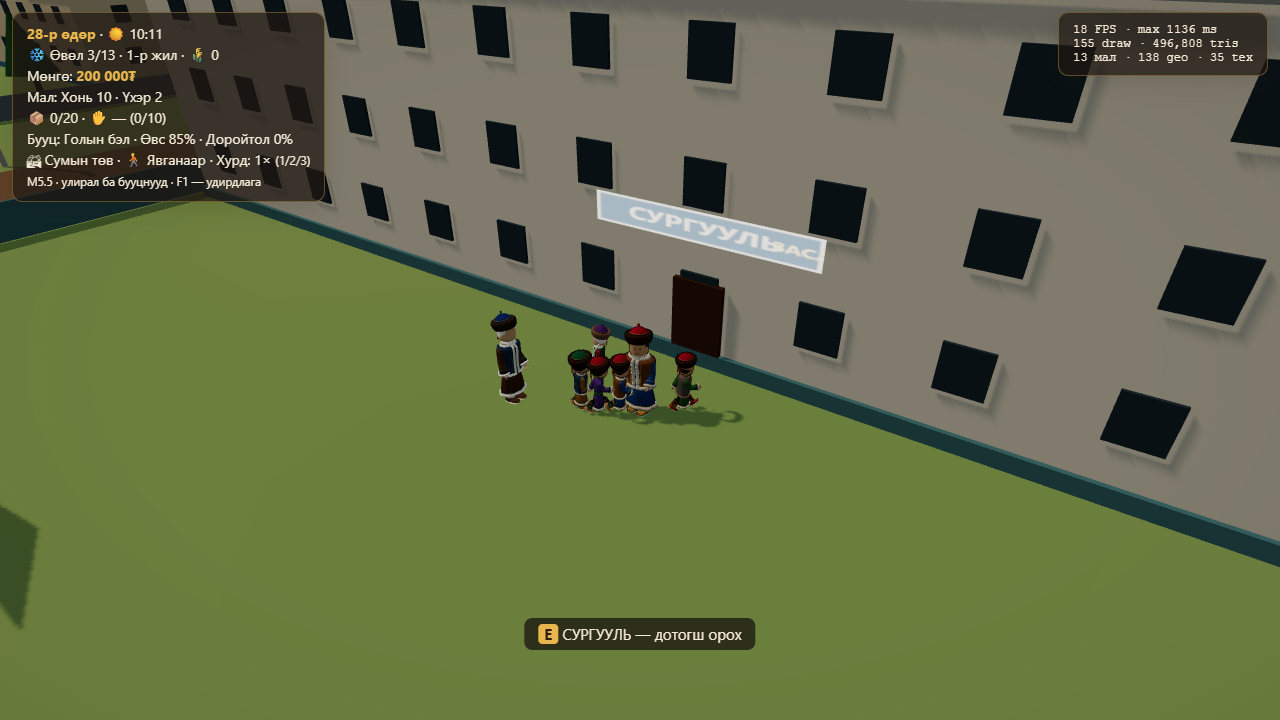
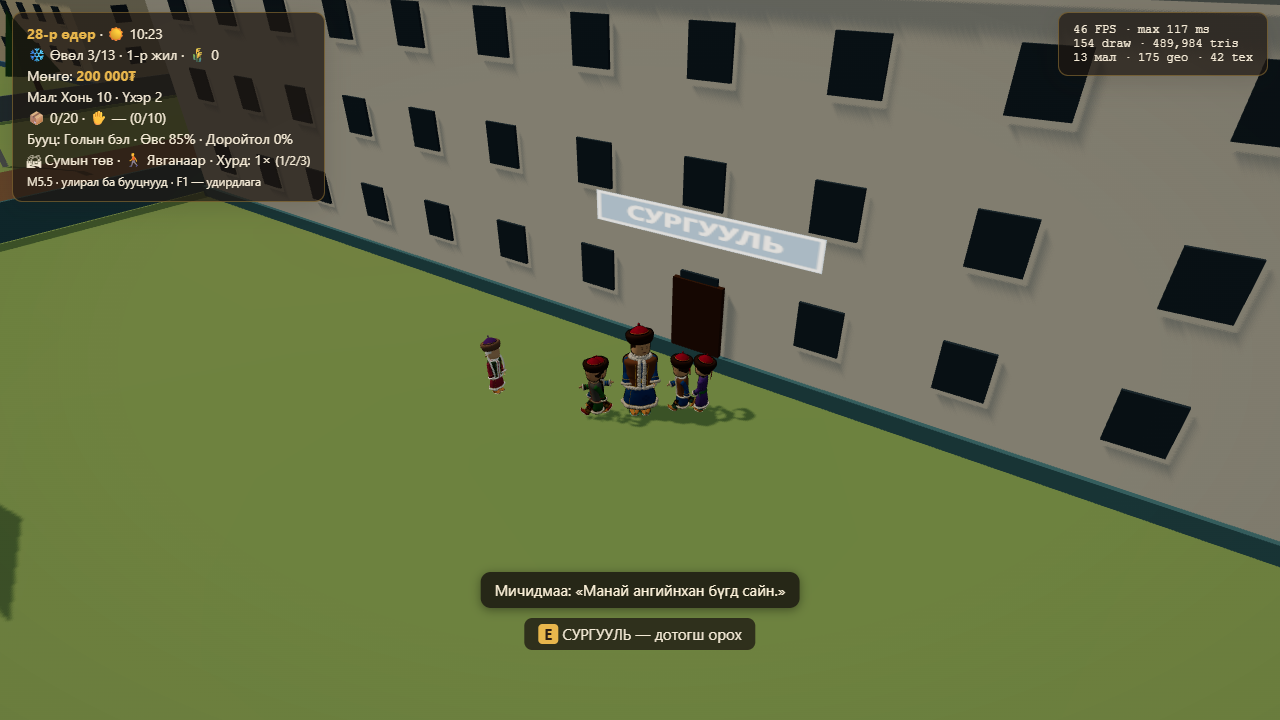
fix(render): шошго бичиг хөрш нүд рүү нэвчдэг, камер ойрын дүрийн биед орно — labelAtlas завсар+багтаах, камер хананд наалдахад дээш өргөгдөж/эргэнэ, ойр дүр нуугдана, NPC тоглогчийг тойрно

diff --git a/game/src/render/camera.ts b/game/src/render/camera.ts
@@ -9,6 +9,9 @@ import * as THREE from 'three';
 import { clamp } from './util';
 import { clipThroughSolids, type CamSolids } from './camclip';
 
+/** Мөргөлдөөнөөс болж камер малчинд ойртох хамгийн бага зай (м) */
+const MIN_CAM = 1.7;
+
 export class FollowCamera {
   readonly camera: THREE.PerspectiveCamera;
   yaw = 0.6;
@@ -120,17 +123,34 @@ export class FollowCamera {
   }
 
   update(tx: number, tz: number, ty: number, heightAt: (x: number, z: number) => number, dt = 1 / 60): void {
-    const cx = tx + Math.sin(this.yaw) * Math.cos(this.pitch) * this.dist;
-    const cz = tz + Math.cos(this.yaw) * Math.cos(this.pitch) * this.dist;
-    let cy = ty + Math.sin(this.pitch) * this.dist;
-    cy = Math.max(cy, heightAt(cx, cz) + 1.2);
+    const trial = (pitch: number, yaw = this.yaw): { cx: number; cy: number; cz: number; t: number } => {
+      const cx = tx + Math.sin(yaw) * Math.cos(pitch) * this.dist, cz = tz + Math.cos(yaw) * Math.cos(pitch) * this.dist;
+      const cy = Math.max(ty + Math.sin(pitch) * this.dist, heightAt(cx, cz) + 1.2);
+      return { cx, cy, cz, t: this.solids ? clipThroughSolids([tx, ty, tz], [cx, cy, cz], this.solids) : 1 };
+    };
+    // Мөргөлдөөн: малчин → камер сегментийг саадад тулгана. Саад ойр бол камер дээш өргөгдөж барилгын дээгүүрээс харна
+    // (малчны биед наалдахгүй); хэрэв тэгэхэд ч болохгүй бол ойртоно. Ойртох нь хурдан (~0.08 с), холдох нь аажим (~0.4 с)
+    let best = trial(this.pitch);
+    if (this.solids && best.t < 0.85) {
+      for (let pp = this.pitch + 0.15; pp <= Math.min(1.38, this.pitch + 0.31); pp += 0.15) {
+        const r = trial(Math.min(pp, 1.38));
+        if (r.t > best.t + 1e-6) best = r;
+        if (r.t >= 0.85) break;
+      }
+    }
+    // Саад ойр бөгөөд өргөгдсөн ч чөлөөгүй бол (хананд наалдсан) камер аажим эргэж чөлөөтэй тал руу гарна (чирж байхад эргүүлэхгүй)
+    if (this.solids && !this.mapMode && !this.ptr?.drag && dt > 0 && best.t * this.dist < Math.min(6, this.dist)) {
+      for (let i = 1; i <= 9; i++) {
+        const off = Math.ceil(i / 2) * 0.35 * (i % 2 ? 1 : -1);
+        if (trial(this.pitch, this.yaw + off).t >= 0.85) { this.yaw += off * Math.min(1, dt * 3); best = trial(this.pitch); break; }
+      }
+    }
+    const { cx, cy, cz, t } = best;
     this.desiredTarget.set(tx, ty, tz);
-    // Мөргөлдөөн: малчин → камер сегментийг саадад тулгана. Ойртох нь хурдан (~0.08 с), холдох нь аажим (~0.4 с)
-    let t = 1;
-    if (this.solids) t = clipThroughSolids([tx, ty, tz], [cx, cy, cz], this.solids);
     if (!this.cameraReady || dt <= 0 || t < this.clipT) this.clipT = t < this.clipT ? this.clipT + (t - this.clipT) * (this.cameraReady && dt > 0 ? 1 - Math.exp(-dt * 25) : 1) : t;
     else this.clipT += (t - this.clipT) * (1 - Math.exp(-dt * 2.5));
-    const k = Math.min(this.clipT, t);                  // зөөлрүүлсэн ч хана руу орохгүй (t-ээс их болохгүй)
+    const L0 = Math.hypot(cx - tx, cy - ty, cz - tz) || 1, kMin = Math.min(1, MIN_CAM / L0);   // малчны биед наалдахгүй (ойр дүрийг scene нууна)
+    const k = Math.max(kMin, Math.min(this.clipT, t));     // зөөлрүүлсэн ч хана руу орохгүй (t-ээс их болохгүй)
     this.desiredPosition.set(tx + (cx - tx) * k, ty + (cy - ty) * k, tz + (cz - tz) * k);
     if (!this.cameraReady || dt <= 0) {
       this.smoothPosition.copy(this.desiredPosition);
@@ -145,7 +165,8 @@ export class FollowCamera {
     if (this.solids) {
       const sp = this.smoothPosition, st = this.smoothTarget;
       const k2 = clipThroughSolids([st.x, st.y, st.z], [sp.x, sp.y, sp.z], this.solids);
-      if (k2 < 1) sp.set(st.x + (sp.x - st.x) * k2, st.y + (sp.y - st.y) * k2, st.z + (sp.z - st.z) * k2);
+      const kMin2 = Math.min(1, MIN_CAM / (Math.hypot(sp.x - st.x, sp.y - st.y, sp.z - st.z) || 1));
+      if (k2 < 1) sp.set(st.x + (sp.x - st.x) * Math.max(k2, kMin2), st.y + (sp.y - st.y) * Math.max(k2, kMin2), st.z + (sp.z - st.z) * Math.max(k2, kMin2));
     }
     this.camera.position.copy(this.smoothPosition);
     this.camera.lookAt(this.smoothTarget);

diff --git a/game/src/render/labelAtlas.ts b/game/src/render/labelAtlas.ts
@@ -8,19 +8,27 @@ import { mergeGeometries } from 'three/examples/jsm/utils/BufferGeometryUtils.js
 export interface LabelStyle { text: string; bg: string; fg: string }
 
 const CW = 512, CH = 128, COLS = 4;
+/** Нүд хооронд завсар (px): mipmap-ийн цонх хөрш нүдний бичгийг татахгүй; UV нүдийн дотор талаас авна */
+const GAP = 16, INSET = 8, SW = CW + GAP, SH = CH + GAP;
 
 function drawCell(c: CanvasRenderingContext2D, x: number, y: number, s: LabelStyle): void {
+  c.save();
+  c.beginPath(); c.rect(x, y, CW, CH); c.clip();                       // бичиг нүднээсээ хэзээ ч гарахгүй
   c.fillStyle = s.bg;
   c.fillRect(x, y, CW, CH);
   c.strokeStyle = s.fg;
   c.lineWidth = 8;
-  c.strokeRect(x + 6, y + 6, CW - 12, CH - 12);
+  c.strokeRect(x + 14, y + 14, CW - 28, CH - 28);
   c.fillStyle = s.fg;
-  const size = s.text.length > 14 ? 46 : s.text.length > 9 ? 58 : 70;
-  c.font = `bold ${size}px system-ui, sans-serif`;
   c.textAlign = 'center';
   c.textBaseline = 'middle';
+  let size = s.text.length > 14 ? 46 : s.text.length > 9 ? 58 : 70;
+  c.font = `bold ${size}px system-ui, sans-serif`;
+  const maxW = CW - 72;                                                  // хүрээнээс 18 px зайтай
+  const w = c.measureText(s.text).width;
+  if (w > maxW) { size = Math.max(20, Math.floor((size * maxW) / w)); c.font = `bold ${size}px system-ui, sans-serif`; }
   c.fillText(s.text, x + CW / 2, y + 68);
+  c.restore();
 }
 
 export class LabelAtlas {
@@ -51,10 +59,10 @@ export class LabelAtlas {
     if (!this.quads.length) return null;
     this.rows = Math.ceil(this.cells.length / COLS);
     const cv = document.createElement('canvas');
-    cv.width = CW * COLS;
-    cv.height = CH * this.rows;
+    cv.width = SW * COLS;
+    cv.height = SH * this.rows;
     const c = cv.getContext('2d')!;
-    this.cells.forEach((s, i) => drawCell(c, (i % COLS) * CW, Math.floor(i / COLS) * CH, s));
+    this.cells.forEach((s, i) => drawCell(c, (i % COLS) * SW + GAP / 2, Math.floor(i / COLS) * SH + GAP / 2, s));
     const geometry = mergeGeometries(this.quads.map((q) => q.geo), false)!;
     this.quads.forEach((q) => q.geo.dispose());
     this.uv = geometry.attributes.uv as THREE.BufferAttribute;
@@ -72,9 +80,10 @@ export class LabelAtlas {
   }
 
   private setCell(quad: number, cell: number): void {
-    const uv = this.uv!, col = cell % COLS, row = Math.floor(cell / COLS), W = CW * COLS, H = CH * this.rows;
-    // PlaneGeometry-ийн орой: (0,1) (1,1) (0,0) (1,0); 1 px дотогш — хөрш нүд нэвчихгүй
-    const u0 = (col * CW + 1) / W, u1 = ((col + 1) * CW - 1) / W, v0 = 1 - ((row + 1) * CH - 1) / H, v1 = 1 - (row * CH + 1) / H;
+    const uv = this.uv!, col = cell % COLS, row = Math.floor(cell / COLS), W = SW * COLS, H = SH * this.rows;
+    // PlaneGeometry-ийн орой: (0,1) (1,1) (0,0) (1,0); нүдний ирмэгээс INSET px дотогш
+    const x0 = col * SW + GAP / 2, y0 = row * SH + GAP / 2;
+    const u0 = (x0 + INSET) / W, u1 = (x0 + CW - INSET) / W, v0 = 1 - (y0 + CH - INSET) / H, v1 = 1 - (y0 + INSET) / H;
     const o = quad * 4;
     uv.setXY(o, u0, v1); uv.setXY(o + 1, u1, v1); uv.setXY(o + 2, u0, v0); uv.setXY(o + 3, u1, v0);
     uv.needsUpdate = true;

diff --git a/game/src/render/npcs.ts b/game/src/render/npcs.ts
@@ -35,6 +35,8 @@ interface Entry {
   placed: boolean;
   lineNo: number;
   scale: number;
+  /** тоглогчийг тойрох зөөлөн шилжилт (м) */
+  ox: number; oz: number;
 }
 
 export class NpcView {
@@ -45,10 +47,12 @@ export class NpcView {
   private talkWith: { e: Entry; t: number; line: number } | null = null;
   private speech: HTMLDivElement | null = null;
   private readonly maxLive = MAX_LIVE[quality] ?? 5;
+  /** Камерын байрлал (scene тавина): камер дүрийн биед орвол тэр дүрийг нууна */
+  camera: THREE.Vector3 | null = null;
 
   constructor(private readonly cfg: GameConfig) {
     this.group.name = 'npcs';
-    this.entries = cfg.npcs.npcs.map((def) => ({ def, rig: null, far: null, yaw: 0, px: 0, pz: 0, speed: 0, placed: false, lineNo: 0, scale: def.look.figure?.stature ?? 1 }));
+    this.entries = cfg.npcs.npcs.map((def) => ({ def, rig: null, far: null, yaw: 0, px: 0, pz: 0, speed: 0, placed: false, lineNo: 0, scale: def.look.figure?.stature ?? 1, ox: 0, oz: 0 }));
   }
 
   // ---------- төрх ----------
@@ -106,6 +110,13 @@ export class NpcView {
   private drive(e: Entry, n: NpcNow, x: number, y: number, z: number, dt: number, playerX: number, playerZ: number, talking: boolean): void {
     const rig = this.ensureRig(e);
     if (!e.yaw && !e.placed) e.yaw = n.heading;
+    // тоглогчийн биеэс (1.15 м) түлхэгдэж зөөлөн тойрно — тоглогчийн дэргэд, биед нь зогсохгүй
+    const dx = x - playerX, dz = z - playerZ, d = Math.hypot(dx, dz), MINP = 1.15;
+    let tx = 0, tz = 0;
+    if (d < MINP) { const nx = d > 1e-3 ? dx / d : Math.cos(n.heading + Math.PI / 2), nz = d > 1e-3 ? dz / d : -Math.sin(n.heading + Math.PI / 2); tx = nx * MINP - dx; tz = nz * MINP - dz; }
+    const kk = Math.min(1, dt * 7);
+    e.ox += (tx - e.ox) * kk; e.oz += (tz - e.oz) * kk;
+    x += e.ox; z += e.oz;
     this.measure(e, x, z, dt);
     const target = talking ? Math.atan2(playerX - x, playerZ - z) : n.heading;
     e.yaw = turnToward(e.yaw, target, talking ? characters.talk.turnRate : 8, dt);
@@ -113,6 +124,7 @@ export class NpcView {
     rig.root.rotation.y = e.yaw;
     const bob = animateCharacter(rig, { dt, speed: talking ? 0 : e.speed, mode: 'foot', raise: false, uurga: false, talk: talking, emotion: 'neutral' });
     rig.root.position.y = y + bob * e.scale;
+    if (this.camera && Math.hypot(this.camera.x - x, this.camera.y - (rig.root.position.y + 0.9 * e.scale), this.camera.z - z) < 1.5 * e.scale) rig.root.visible = false;   // камер биед орвол нууна
   }
 
   /** Ярилцлага: хамгийн ойр, зогсож буй NPC (амьд дүр) руу; тоглогч бас зогсож байх ёстой */

diff --git a/game/src/render/scene.ts b/game/src/render/scene.ts
@@ -293,7 +293,7 @@ export class GameView {
     this.place = p.place;
     this.skyUniforms.cloudTime.value += Math.max(0, dt);
     const look = seasonLook(this.cfg, state);
-    if (import.meta.env.DEV) (window as unknown as { __state?: GameState }).__state = state;   // dev: туршилтын зураг авахад (цаг, өдөр, байрлал өөрчлөх)
+    if (import.meta.env.DEV) { (window as unknown as { __state?: GameState; __cam?: FollowCamera }).__state = state; (window as unknown as { __cam?: FollowCamera }).__cam = this.cam; }   // dev: туршилтын зураг авахад (цаг, өдөр, байрлал өөрчлөх)
     const season = seasonOf(this.cfg, state.time.day);
     this.applyDaylight(state.time.minute, season, p.x, p.z);
     this.characters.setSeason(season);
@@ -350,6 +350,8 @@ export class GameView {
     const ty = this.heightAt(cx, cz) + (p.mounted || p.driving ? 2.4 : 1.6);
     this.cam.solids = camp ? this.campSolids(state) : p.place === 'sum' ? this.sum.solids : null;   // V4.5 R7: камер барилга, гэрт орохгүй
     this.cam.update(cx, cz, ty, this.heightAt, dt);
+    this.sum.npcs.camera = this.cam.camera.position;
+    this.hideHerderIfCameraInside(cx, ty - 0.6, cz);
     this.terrain.updateGrassCenter(cx, cz, (this.scene.fog as THREE.Fog).far);
     this.skyDome.position.copy(this.cam.camera.position);
     this.stars.position.copy(this.cam.camera.position);
@@ -357,6 +359,13 @@ export class GameView {
     this.renderer.render(this.scene, this.cam.camera);
   }
 
+  private herderHid = false;
+  /** Камер малчны биед (1.5 м дотор) орвол малчныг түр нууна */
+  private hideHerderIfCameraInside(x: number, y: number, z: number): void {
+    const hv = this.characters.herderObject, c = this.cam.camera.position;
+    const near = Math.hypot(c.x - x, c.y - y, c.z - z) < 1.5;
+    if (near) { hv.visible = false; this.herderHid = true; } else if (this.herderHid) { hv.visible = true; this.herderHid = false; }
+  }
   private inPrev = { x: 0, z: 0 };
   private campKey = '';
   private campSol: CamSolids = { boxes: [], cyls: [] };
